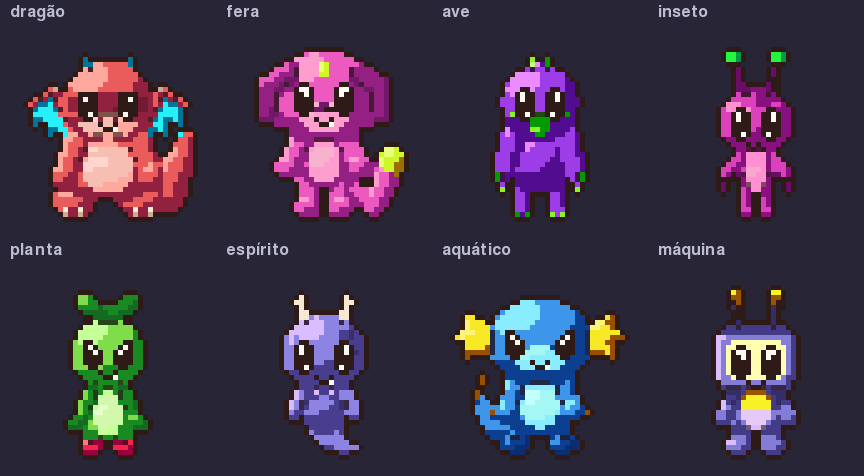
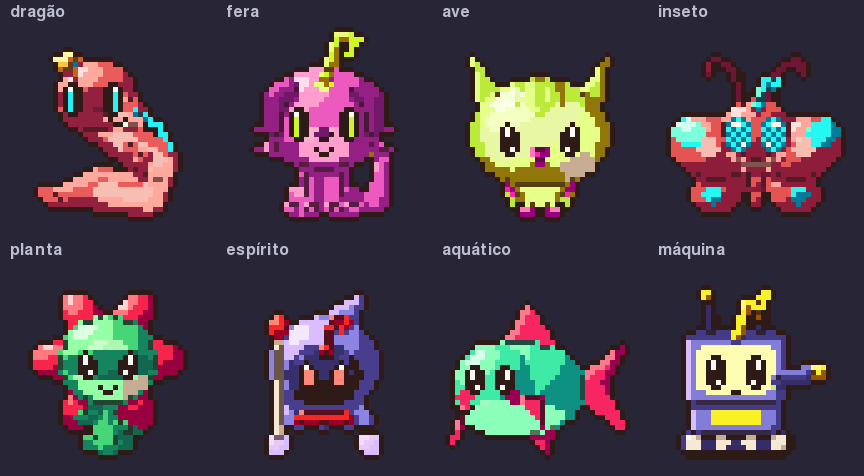
docs(m11): refresh sprite showcase

diff --git a/README.md b/README.md
@@ -209,9 +209,9 @@ Todos os sprites são **procedurais e originais**, no estilo V-Pet: contorno esc
 
 ![Uma forma adulta de cada família](docs/images/families.png)
 
-- **Oito famílias** (plano de corpo fixo pela vida toda, definido pela semente): dragão, fera, ave, inseto, planta, espírito, aquático, máquina.
-- **Coesão:** um esqueleto só (cabeça, corpo, pernas, braços) muda de proporção por estágio (bebê = cabeça enorme; adulto, perfeito e final alongam). Chifres, orelhas, caudas, nadadeiras e asas crescem com o estágio. Os genes da semente (tipo de chifre/orelha, marcações, estilo dos olhos, proporções finas) são os mesmos em todos os estágios, então dá para reconhecer a criatura ao crescer.
-- **Personalidade e ramo aparecem no desenho:** curiosidade aumenta cabeça e olhos; sociabilidade abre os braços; paciência alarga o corpo; independência afina e alonga. Cada ramo dá um acessório (cachecol, óculos, boina, capa, coroa...), e os de negligência dão olhos vermelhos.
+- **Oito famílias, três planos de corpo cada** (fixos pela vida toda, definidos pela semente): dragão (quadrúpede, bípede, serpente), fera (quadrúpede, sentada, bípede), ave (empoleirada, coruja, em voo), inseto (besouro, louva-a-deus, mariposa), planta (bulbo, flor, cacto), espírito (lençol, chama, encapuzado), aquático (água-viva, peixe, anfíbio), máquina (bípede, tanque, drone).
+- **Coesão:** o plano de corpo só muda de proporção por estágio (bebê = cabeça enorme; adulto, perfeito e final alongam). Chifres, orelhas, caudas, nadadeiras e asas crescem com o estágio. Os genes da semente (tipo de chifre/orelha, marcações, estilo dos olhos, proporções finas) são os mesmos em todos os estágios, então dá para reconhecer a criatura ao crescer. Os olhos variam por família e semente (fenda, facetado, aceso, visor...).
+- **Personalidade e ramo aparecem no desenho:** curiosidade aumenta cabeça e olhos; sociabilidade abre os braços; paciência alarga o corpo; independência afina e alonga. Cada ramo dá um acessório (cachecol, óculos, boina, capa, coroa...) que continua nos estágios seguintes (até 3, o mais recente em destaque), e os de negligência dão olhos vermelhos.
 - **Paleta:** 3 tons de corpo com deslocamento de matiz, 1 acento, contorno quente fixo; o matiz base é o do genoma e se mantém a vida inteira.
 - **Animações** (as mesmas do app: `idle`, `walk`, `eat`, `sleep`, `happy`, `sad`, `sick`, `evolve`, `old`, `dead`):
 
@@ -318,7 +318,7 @@ O bench mede o estado estável (primeiro uso já respondido, todas as permissõe
 **Próximos passos**
 
 1. Integrar a arte do M11 em `engrama/app/art` (a API pública `sprites.frames(...)` e os saves não mudam; plano no README do protótipo).
-2. Revisar a arte (rodada 2: ovo com a cor da família, inseto e ave, acessórios pequenos, poses).
+2. Revisar a arte (rodada 3: dragão quadrúpede carregado no adulto, asas erguidas da ave, acessórios de costas em serpente/água-viva).
 3. Smokes manuais pendentes e calibração com modelos reais.
 
 Especificações, planos e relatórios de cada marco: [`docs/superpowers/`](docs/superpowers/).
@@ -539,9 +539,9 @@ All sprites are **procedural and original**, in the V-Pet style: 1 px dark outli
 
 ![One adult form per family](docs/images/families.png)
 
-- **Eight families** (body plan fixed for life, set by the seed): dragon, beast, bird, insect, plant, spirit, aquatic, machine.
-- **Cohesion:** a single skeleton (head, body, legs, arms) changes proportions per stage (baby = huge head; adult, perfect and final stretch out). Horns, ears, tails, fins and wings grow with the stage. The seed's genes (horn/ear type, markings, eye style, fine proportions) are the same at every stage, so you recognise the creature as it grows.
-- **Personality and branch show in the drawing:** curiosity enlarges head and eyes; sociability opens the arms; patience widens the body; independence slims and lengthens. Each branch adds an accessory (scarf, glasses, beret, cape, crown...), and the neglect branches give red eyes.
+- **Eight families, three body plans each** (fixed for life, set by the seed): dragon (quadruped, biped, serpent), beast (quadruped, sitting, biped), bird (perching, owl, in flight), insect (beetle, mantis, moth), plant (bulb, flower, cactus), spirit (sheet, flame, hooded), aquatic (jellyfish, fish, amphibian), machine (biped, tank, drone).
+- **Cohesion:** the body plan only changes proportions per stage (baby = huge head; adult, perfect and final stretch out). Horns, ears, tails, fins and wings grow with the stage. The seed's genes (horn/ear type, markings, eye style, fine proportions) are the same at every stage, so you recognise the creature as it grows. Eyes vary by family and seed (slit, compound, glowing, visor...).
+- **Personality and branch show in the drawing:** curiosity enlarges head and eyes; sociability opens the arms; patience widens the body; independence slims and lengthens. Each branch adds an accessory (scarf, glasses, beret, cape, crown...) that carries over to later stages (up to 3, the latest most prominent), and the neglect branches give red eyes.
 - **Palette:** 3 body tones with hue shift, 1 accent, a fixed warm outline; the base hue is the genome's and stays the same for life.
 - **Animations** (the same ones the app uses: `idle`, `walk`, `eat`, `sleep`, `happy`, `sad`, `sick`, `evolve`, `old`, `dead`):
 
@@ -648,7 +648,7 @@ The bench measures the steady state (first run already answered, all permissions
 **Next steps**
 
 1. Integrate the M11 art into `engrama/app/art` (the public `sprites.frames(...)` API and the saves do not change; plan in the prototype README).
-2. Review the art (round 2: egg with the family colour, insect and bird, small accessories, poses).
+2. Review the art (round 3: cluttered adult quadruped dragon, raised bird wings, back accessories on serpent/jellyfish).
 3. Pending manual smokes and calibration with real models.
 
 Specs, plans and reports of each milestone: [`docs/superpowers/`](docs/superpowers/).
